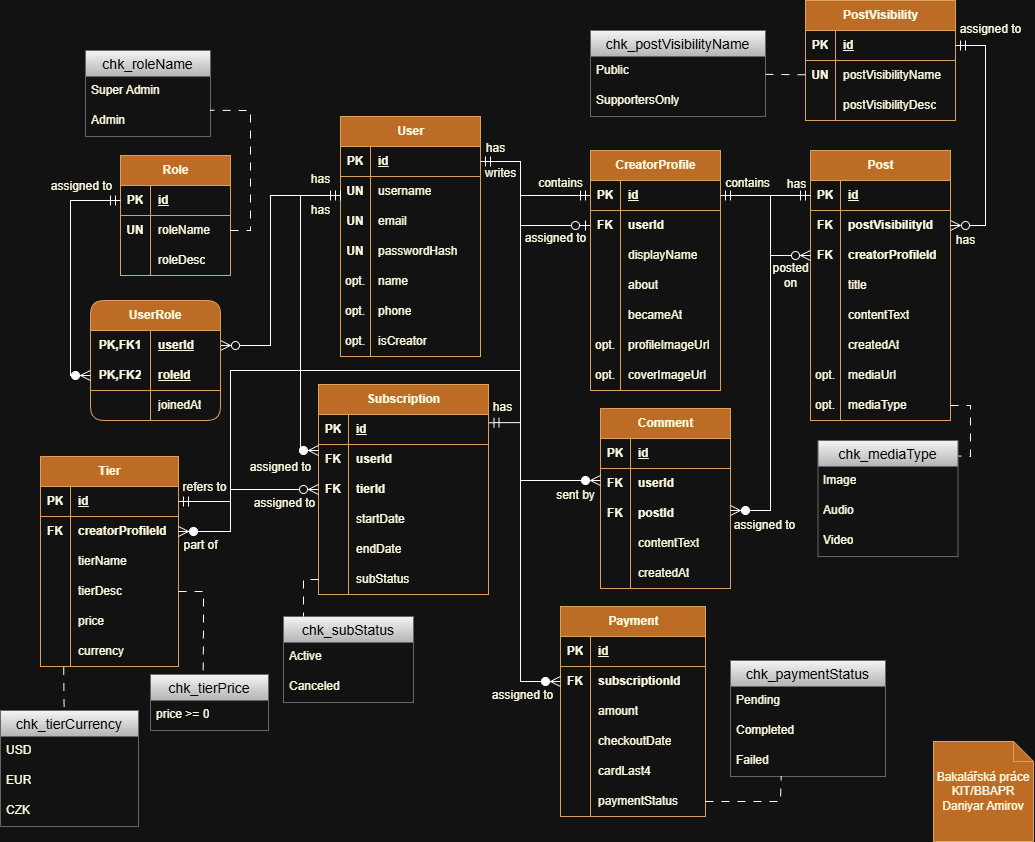
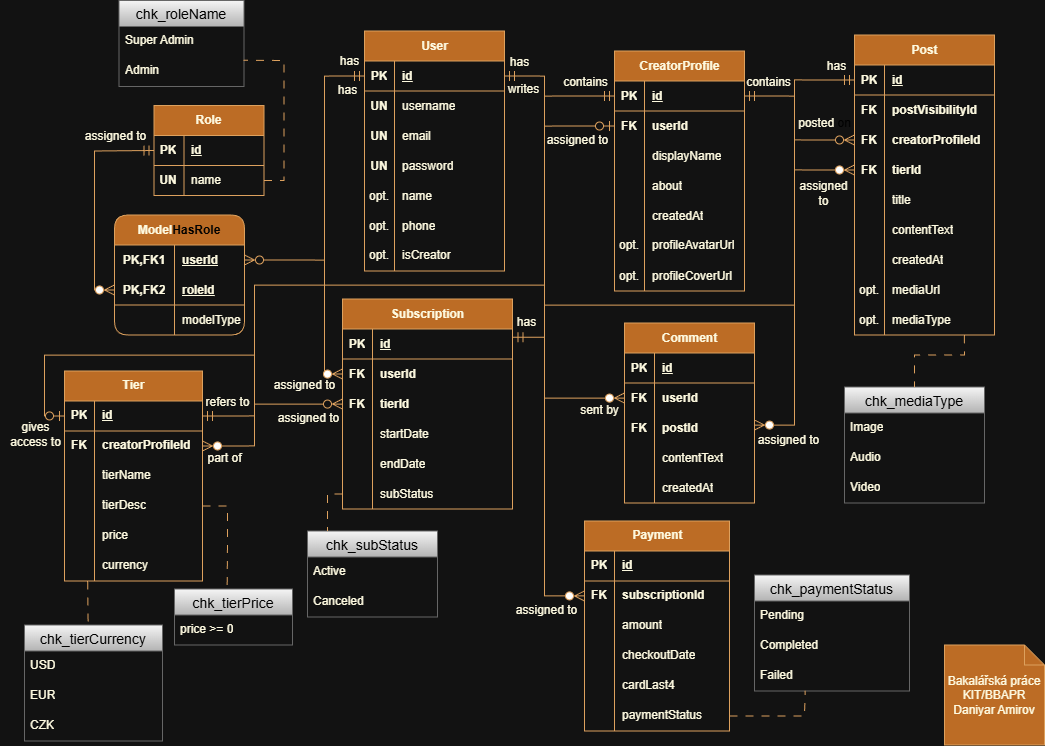
Fix: migration for Users added, ER model updated

Changed region(s): [[0.0, 0.0, 0.9894, 1.0], [0.8966, 0.8633, 1.0, 1.0], [0.742, 0.4008, 0.7729, 0.4316]]

diff --git a/backend/database/migrations/2026_01_30_141129_adjust_users_columns_constraints.php b/backend/database/migrations/2026_01_30_141129_adjust_users_columns_constraints.php
@@ -1,0 +1,32 @@
+<?php
+
+use Illuminate\Database\Migrations\Migration;
+use Illuminate\Database\Schema\Blueprint;
+use Illuminate\Support\Facades\Schema;
+
+return new class extends Migration
+{
+    /**
+     * Run the migrations.
+     */
+    public function up(): void
+    {
+        Schema::table('users', function (Blueprint $table) {
+            $table->string('name', 100)->change();
+            $table->string('username', 50)->change();
+            $table->string('phone', 16)->nullable()->change();
+        });
+    }
+
+    /**
+     * Reverse the migrations.
+     */
+    public function down(): void
+    {
+        Schema::table('users', function (Blueprint $table) {
+            $table->string('name', 255)->change();
+            $table->string('username', 255)->change();
+            $table->string('phone', 255)->nullable()->change();
+        });
+    }
+};
